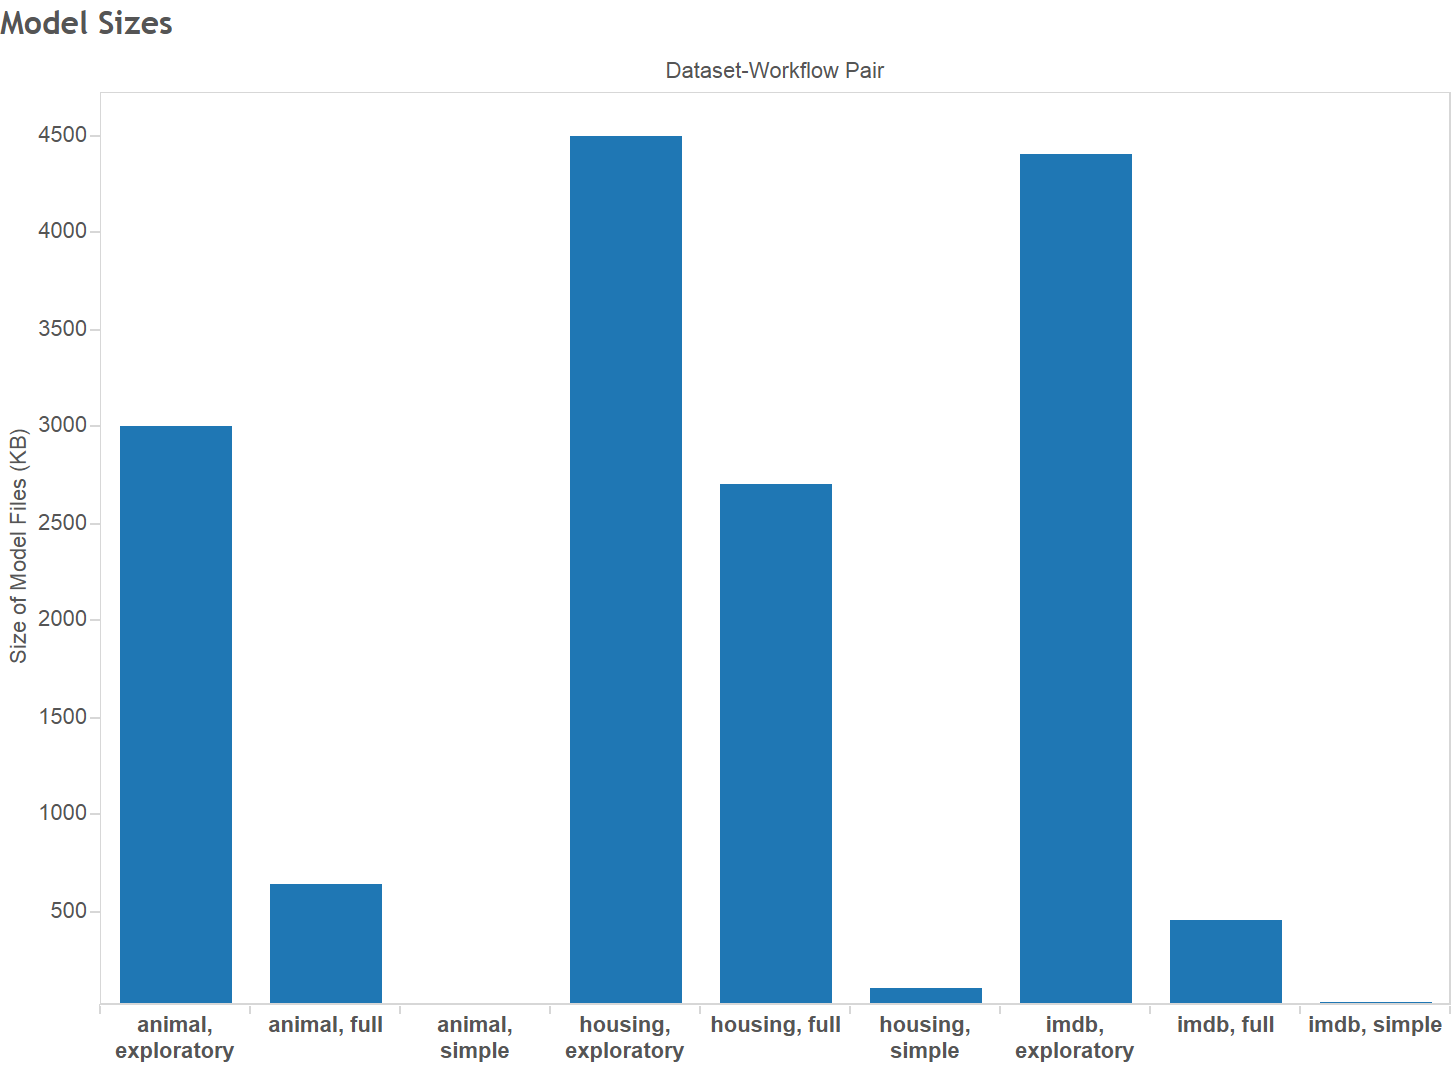
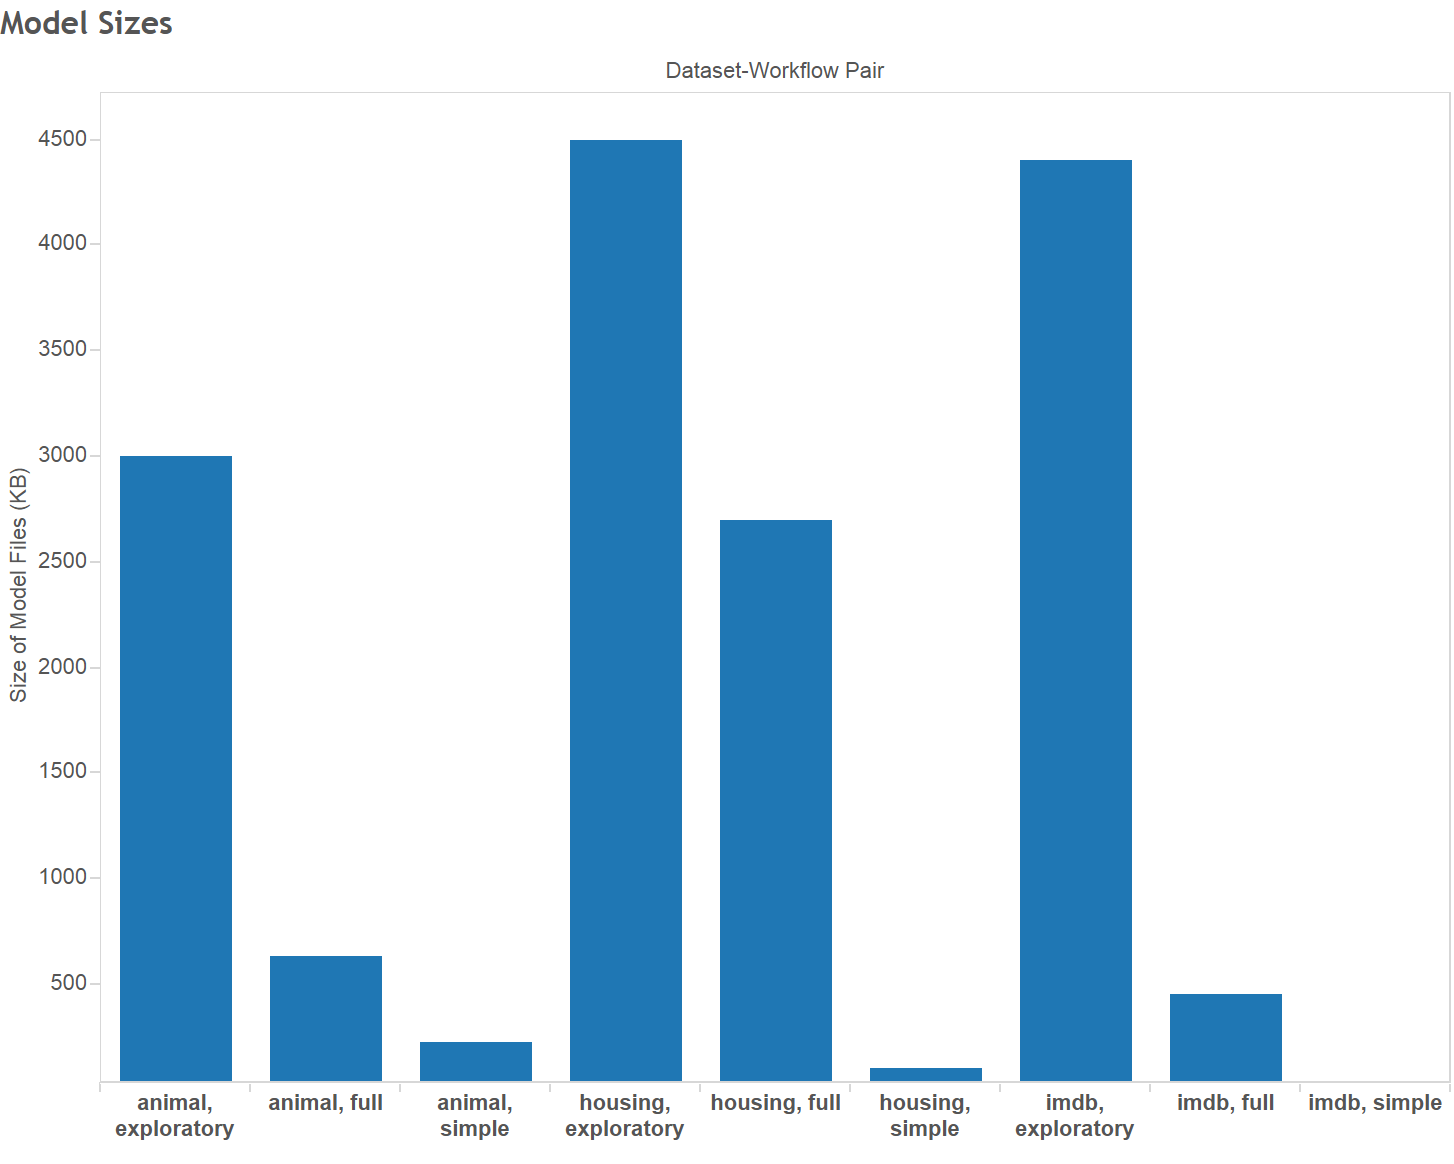
Did time and space overhead sections

diff --git a/chap6.tex b/chap6.tex
@@ -1,35 +1,36 @@
 \chapter{Evaluation}
-Integrating ModelDB S+C requires the program to spend additional time storing the
-operations on the server. The ModelDB S+C database and model filesystem also
-take up some storage space. Additionally, the API methods exposed by ModelDB Server
-take some time to run.
+By importing ModelDBSyncer and appending "Sync" to the method names, the user
+can use ModelDB Spark Client to record and send their operations and models
+on ModelDB Server, which stores the data in its database and model filesystem.
+Naturally, this takes extra running time and storage space than if the user did
+not ModelDB S+C at all. Additionally, the API methods exposed by ModelDB Server
+take some time to run too. The goal of this chapter is to measure whether the time
+and space requirements of ModelDB S+C are reasonable.
+
 
 \section{Overview}
-The goal of this chapter is to describe the experiments performed on ModelDB S+C
-to measure its performance. Specifically, the experiments were conducted to
-answer the following questions:
+Experiments were conducted to answer the following questions:
 
 \begin{enumerate}
-\item Is the time overhead of storing operations on the server reasonably small (compared to
+\item Is the time overhead of storing operations and models on ModelDB Server reasonably small (compared to
 the overall running time of the Spark.ML program)?
 \item Is the space taken up by ModelDB S+C's database and model files reasonably small (compared
-to the size of the dataset).
-\item Is ModelDB S+C's tree model and linear model representations reasonably small (compared 
-to the size of corresponding PMML files).
+to the size of the dataset)?
+\item Are ModelDB S+C's tree model and linear model representations reasonably small (compared 
+to the size of corresponding PMML files)?
 \item Is the time take to execute the ModelDB Server API methods reasonably small (compared
-to the training time of the model).
-\item Can ModelDB S+C record most of the machine learning operations in Spark.ML programs
-that run on real datasets?
+to the training time of the model)?
+\item Can ModelDB S+C record most of the machine learning operations in real Spark.ML programs?
 \end{enumerate}
 
 The chapter also discusses performance improvements that can further improve ModelDB S+C with
-regard to the above points.
+regard to the above questions.
 
 \section{Datasets}
 ModelDB S+C was evaluated on real datasets, which are described below:
 
 The \textbf{IMDB} dataset \cite{imdb} includes features like genre, number of
-reviews, language, and more for 5000 movies in the IMDB Movie Database. The dataset
+reviews, language, and more for over 5000 movies in the IMDB Movie Database. The dataset
 also includes the IMDB score (i.e. a 1 to 10 rating of how good the movie is considered)
 for each movie. A machine learning model could solve a regression problem on this
 dataset in which it predicts the IMDB score for a given movie. Such a model could, for instance,
@@ -40,9 +41,9 @@ when measuring the execution time for ModelDB Server API methods.
 The \textbf{Animal Shelter} dataset \cite{animal} includes features like
 animal type (cat or dog), breed, color, age, and more for over 25,000 animals. The
 dataset also includes the animal's outcome (e.g. adopted, returned to owner, transferred)
-for each animal. A machine learning model could solve a multi-class classification
-problem in which it predicts the most likely outcome for a given animal. Such a model could, for
-instance, to identify the most likely outcome for an animal newly admitted into the
+for each animal. A machine learning model could solve a multi-class classification problem on this dataset
+in which it predicts the most likely outcome for a given animal. Such a model could, for
+instance, be used to identify the most likely outcome for an animal newly admitted into the
 an animal shelter. This dataset was used when measuring the time/space overhead
 of ModelDB S+C.
 
@@ -78,19 +79,19 @@ machine learning workflow.
 
 The \textbf{Flight Delays} dataset \cite{airline} includes features like carrier, departure
 time, and more for over 14 million airplane departures. It also includes a field indicating whether
-the plane was delayed. A machine learning model could solve a binary lcassification problem on this dataset in which
+the plane was delayed. A machine learning model could solve a binary classification problem on this dataset in which
 it predicts whether a given airplane is delayed. Such a model could be used by airports and airlines
 to anticipate delays for particular airplanes. This dataset was used when evaluating ModelDB S+C
 on an existing machine learning workflow.
 
 \section{Methodology}
 \subsection{Machine}
-The following experiment was run on a DigitalOcean machine with a 160 GB SSD disk, 8 core processor,
+These experiments were run on a DigitalOcean machine with a 160 GB SSD disk, an 8 core processor,
 and 16GB of memory.
 
 \subsection{Time and Space Overhead}
-The first set of experiments focused on evaluating the time and space overhead of ModelDB S+C.
-The IMDB, Housing Prices, and Animal Shelter datasets were used for these experiments. 
+The first experiment focused on evaluating the time and space overhead of ModelDB S+C.
+The IMDB, Housing Prices, and Animal Shelter datasets were used for this experiment. 
 
 First, for each of the datasets listed above, three programs (called workflows) were
 created. The \textbf{simple} workflow simply trains and evaluates one machine learning model. 
@@ -100,23 +101,23 @@ and evaluates the best model. The \textbf{exploratory} worklow executes many ful
 trying different model types (e.g. random forest, linear regression) and different feature sets.
 
 Second, a program was written to artificially increase the size of the dataset by duplicating rows.
-Dataset sizes were varied from the original number of rows to one million rows.
+Dataset sizes were varied from the dataset's original number of rows to one million rows.
 
-Third, ModelDB Spark Client was instrumented so that it recorded the time spent performing operations related
+Third, ModelDB Spark Client was instrumented so that it recorded the time spent running code related
 to ModelDB S+C.
 
-Third, each (dataset, dataset size, workflow) triple's program was executed with ModelDB S+C enabled. The ModelDB S+C time overhead
-for each operation was recorded. The database size (and the number of rows in each table) as well as the size of the model
+Fourth, each (dataset, dataset size, workflow) triple's program was executed with ModelDB S+C enabled. The time that ModelDB S+C spent
+recording and storing each operation and model was recorded. The database size, number of rows in each table, and size of the model
 files was also recorded. Finally, the overall running time of the program and the size of the (artificially enlarged) dataset
 were also noted. Due to Spark's large memory requirements, it was not possible to run the exploratory workflow for the 
 housing dataset when the number of rows was large because Spark.ML consumed too much memory. This is because Spark is designed
 to be run on machines with large amounts of RAM, and the machine used for these experiments had only 16 GB of RAM.
 
 \subsection{Computation Time of API Methods}
-The second set of experiments focused on evaluating the running time of ModelDB Server's API methods. The
-IMDB dataset was used for these experiments.
+The second experiment focused on evaluating the running time of ModelDB Server's API methods. The
+IMDB dataset was used here.
 
-First, the IMDB exploratory workflow was run to create the ModelDB Server's database.
+First, the IMDB exploratory workflow was run to populate ModelDB Server's database.
 
 Second, the database was duplicated $N$ times (i.e. $N$ additional rows were created for
 every row in every table of the database), where $N$ was varied from 0 to 400. This was
@@ -126,7 +127,7 @@ Third, various API methods were executed on the (artificially enlarged) database
 running time for each method was recorded.
 
 \subsection{Compare ModelDB S+C Models to PMML}
-The PMML website \cite{pmmlwebsite} includes sample files for a 200 tree random forest
+The PMML website \cite{pmmlwebsite} includes sample files for a 200 tree random forest model
 and logistic regression model run that were trained on the Iris dataset. So, this
 experiment trained a random forest model and one vs. rest logistic regression model
 in Spark.ML (with ModelDB S+C enabled). The sizes of the model files and database
@@ -138,15 +139,15 @@ a Hortonworks article, uses the Flight Delays dataset to build a regression mode
 delays. The second \cite{titanicworkflow} and third \cite{spamworkflow} are from ZeppelinHub, a website that allows users to share their
 machine learning workflows as Zeppelin notebooks. The second workflow trains two models
 to predict passenger survival status for the Titanic dataset and the third builds a spam classifier
-using the SMS Spam dataset. These workflows were cleaned up, ported to Spark.ML (for Spark v2.0.0), and 
-were augmented with ModelDB Spark Client (i.e. import ModelDbSyncer and add *Sync to the methods).
+using the SMS Spam dataset. These workflows were cleaned up, ported to Spark v2.0.0, and 
+augmented with ModelDB Spark Client (i.e. import ModelDbSyncer and add *Sync to the methods).
 
 \section{Time Overhead Results}
-To compute the time overhead of ModelDB S+C, it is worth looking at the time overhead percentage. This
-is the total time spent performing operation ModelDB S+C related operations as a fraction of the total
-running time of the program. It is worth plotting this time overhead percentage as a function of the
-the number of rows in the dataset. Note that for this experiment, ModelDB S+C does NOT 
-count the number of rows in each DataFrame. The results are shown in Figure \ref{fig:time_overhead}.
+To measure the time overhead, the time spent running ModelDB S+C code is divided 
+by the total running time of the program and the result is taken as a percentage.
+Plotting this time overhead percentage, for each (dataset, workflow) pair,
+as a function of the number of rows in the dataset yields Figure \ref{fig:time_overhead}.
+For this experiment, ModelDB S+C did NOT count the number of rows in each DataFrame.
 
 \begin{figure}
   \centering
@@ -157,30 +158,32 @@ count the number of rows in each DataFrame. The results are shown in Figure \ref
   \label{fig:time_overhead}
 \end{figure}
 
-Figure \ref{fig:time_overhead} shows that, as the dataset size grows, the amount of time
-spent doing work releated to ModelDB S+C goes down. For a one million row dataset,
-most of the workflows spend less than 5\% of their time performing work for ModelDB S+C.
+Figure \ref{fig:time_overhead} shows that, as the dataset size grows, the time overhead
+percentage for ModelDB S+C goes down. For a one million row dataset,
+most of the workflows spend less than 5\% of their time running ModelDB S+C code.
 
 For the results here, ModelDB S+C is configured not to count the number of rows in the DataFrames.
 Counting the number of rows in a Spark DataFrame requires a sequential scan of the DataFrame. Doing this
-would cause the absolute time overhead of ModeDB to grow linearly with the dataset size. So, ModelDB Spark
+would cause the absolute time spent running ModelDB S+C code to grow linearly with the dataset size. So, ModelDB Spark
 Client disables row-counting by default.
 
 In Figure \ref{fig:time_overhead}, the dataset size is measured in number of rows, rather than in
 the actual size of the data file. This is done because the file format of the data has a big impact on
 the size of the data file. Nevertheless, for reference, the largest dataset size (1 million rows) was under 300 MB
-in size.
+in size. All data was in CSV format.
 
 Thus, Figure \ref{fig:time_overhead} shows that the time overhead of ModelDB S+C becomes insignificant 
 as the dataset grows beyond 300 MB. 
 
-After instrumenting various lines in ModelDB S+C, it was determined that the
-bottleneck operation in ModelDB S+C is writing to the SQLite database. This is not a surprise
+The slowest step in recording and storing a model or operation, as determined yby 
+instrumenting various lines of code, is writing to the SQLite database. This is not a surprise
 because the SQLite file lives on disk and because SQLite is not a very performant database.
+Replacing SQLite with a more performant database may not only reduce the time overhead, it may
+also reduce the storage requirements as well if data is appropriately compressed.
 
 Focusing on the individual operations, the operation that consumed the most time, by far, was
-GridSearchCrossValidationEvent. Averaging the overhead time percentage for the most time
-consuming operations yields Figure \ref{fig:event_time_overhead}.
+GridSearchCrossValidationEvent. The average time overhead percentages for the most time
+consuming operations are shown in Figure \ref{fig:event_time_overhead}.
 
 \begin{figure}
   \centering
@@ -208,7 +211,7 @@ whether they would like to store the full event or or just the FitEvent for the 
 
 \section{Storage Overhead Results}
 For a fixed (dataset, workflow) pair, the size of ModelDB S+C's database and the size of the
-model files does not change even as the number of rows in the dataset changes. This makes sense
+model files do not change even as the number of rows in the dataset changes. This makes sense
 because, except for counting the number of rows, ModelDB S+C does not access any data from the
 DataFrame's rows. The size of ModelDB S+C's SQLite database is shown for each of the (dataset, workflow)
 pairs in Figure \ref{fig:dbsize}.
@@ -224,9 +227,9 @@ pairs in Figure \ref{fig:dbsize}.
 
 For all the (dataset, workflow) pairs, the database size remains under 10MB, and is
 just a few MB for most of the (dataset, workflow) pairs. Since machine learning datasets
-tend to be large (several hundred GB), 10MB is quite small. That being said, inspecting
-the number of rows in each table for the exploratory workflow for the Animal Shelter dataset 
-can provide some insight into how the database size can be reduced. This is shown in Figure
+tend to be large (e.g. several hundred GB), 10MB is quite small. That being said, inspecting
+the number of rows in each table for the Animal Shelter exploratory workflow 
+can provide some insight into reducing the database size even further. This is shown in Figure
 \ref{fig:animal_exploratory_table_sizes}.
 
 \begin{figure}
@@ -240,8 +243,8 @@ can provide some insight into how the database size can be reduced. This is show
 \end{figure}
 
 Overwhelmingly, the TreeModel and TreeLink tables have the most rows. A little
-thought, however, shows that this is not surprising. The exploratory workflow
-for the Animal Shelter dataset trains a number of random forest models. Consider
+thought, however, shows that this is not surprising. The Animal Shelter exploratory workflow
+trains a number of random forest models. Consider
 a random forest with 20 decision trees where each tree has depth 7. Further assume
 that each decision tree is a binary tree. This means that each tree has on the
 order of $2^{7} = 128$ nodes (and roughly the same number of links). Thus, the
@@ -251,17 +254,29 @@ search grid), and a total of 3 such grid search cross validations are performend
 this becomes $2650 \times 8 \times 3 \times 3 = 190,800$ nodes (and roughly the same number of links).
 Therefore, it is no surprise that the TreeNode and TreeLink tables are so large.
 
-ModelDB S+C provides two mechanisms to compensate. First, as described before, it
-allows the user to forgo storing all the data associated with a GridSearchCrossValidationEvent.
-Second, it can allow the user to forgo storing storing entries in the TreeLink and TreeNode table (the
-node and link data are already stored in the serialized model file). This can reduce the database size
+ModelDB S+C provides two mechanisms to reduce database size. First, as described before, it
+allows the user to forgo storing ALL the data associated with a GridSearchCrossValidationEvent and instead
+store only the most important parts.
+Second, it allows the user to forgo storing storing entries in the TreeLink and TreeNode table (the
+node and link data are already stored in the serialized model file) except for specified models. This can reduce the database size
 greatly, and allow the user to only store TreeNode and TreeLink rows when it is necessary. In the 
 exploratory workflow for the Animal Shelter workflow, only one (i.e. the best)  model's TreeLink and TreeNode data is really needed,
-but the workflow stores data for $8 \times 3 \times 3 = 48$ models. When the above two mechanisms are applied,
-the size of the database falls from about 9 MB to 1.7 MB. 
+but the workflow stores data for dozens of random forest models. When the above two mechanisms are applied,
+the size of the database falls from about 9 MB to 1.7 MB, as shown in figure \ref{fig:dbsize_small}.
+
+\begin{figure}
+  \centering
+  \includegraphics[width=5.0in]{dbsize_small}
+  \caption{
+    Size of database for each (dataset, workflow) pair when GridSearchCrossValidationEvent intermediates
+    are not stored and when the TreeLink and TreeNode tables are only populated for the last model.
+  }
+  \label{fig:dbsize_small}
+\end{figure}
+
 
 Finally, it is worth looking at the size of the model files produced by each (dataset, workflow) pair. This is shown in
-Figure \ref{fig:modelsizes}
+Figure \ref{fig:modelsizes}.
 
 \begin{figure}
   \centering
@@ -275,7 +290,20 @@ Figure \ref{fig:modelsizes}
 Again, while these sizes are small (< 5 MB) compared to the size of typical machine learning
 datasets, they can still be reduced. Rather than serializing and storing every single model produced in the 
 workflow, ModelDB S+C allows the user to indicate which models they would actually like to serialize and store (by
-calling saveSync() on the model). When this is done, the the model sizes are shown below (TODO: Add model sizes plot). 
+calling saveSync() on the model). When the final models are explicitly serialized and stored, rather than serializing and storing
+all the produced Transformers, the model sizes in Figure \ref{fig:modelsizes_small} occur. 
+
+\begin{figure}
+  \centering
+  \includegraphics[width=5.0in]{modelsizes_small}
+  \caption{
+    Size of model files for each (dataset, workflow) pair when only the final models are serialized
+    and stored, rather than serializing and storing all produced Transformers.
+  }
+  \label{fig:modelsizes_small}
+\end{figure}
+
+The models in \ref{fig:modelsizes_small} take up much less space.
 
 \section{API Method Time Results}
 
